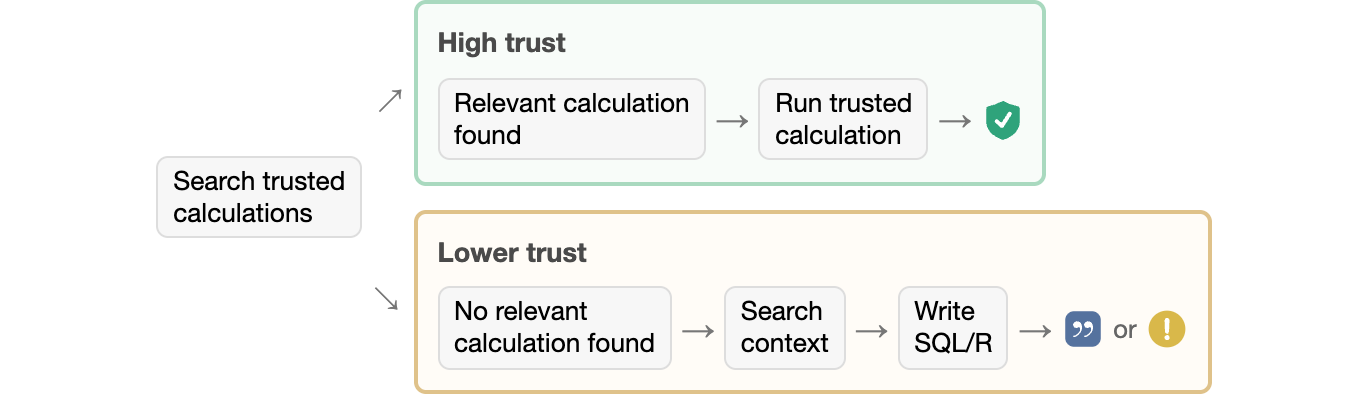
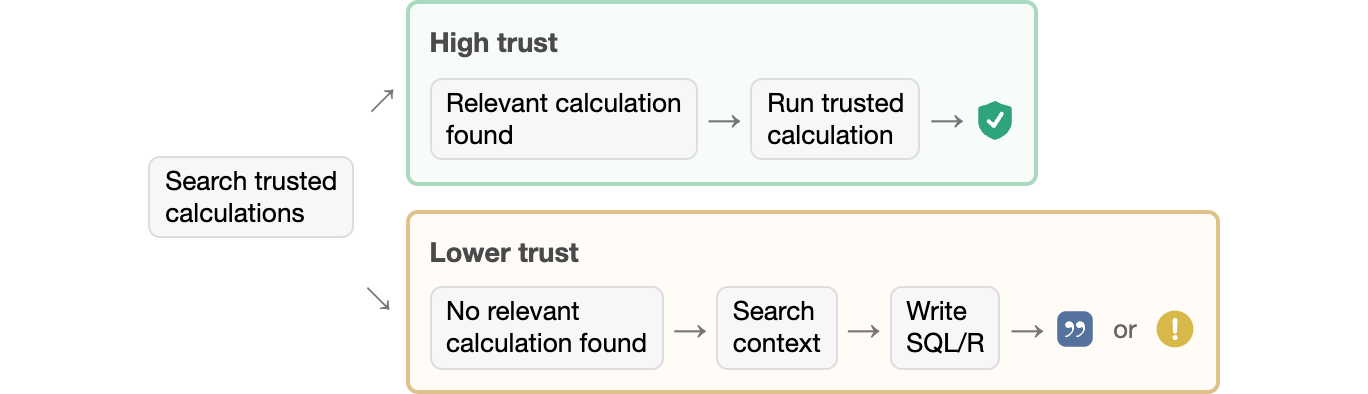
increase gap spacing in flow diagram

diff --git a/pkg-r/vignettes/commons.css b/pkg-r/vignettes/commons.css
@@ -73,7 +73,7 @@
 .commons-flow-results {
   align-items: center;
   display: inline-flex;
-  gap: 0.3rem;
+  gap: 0.55rem;
   white-space: nowrap;
 }
 
